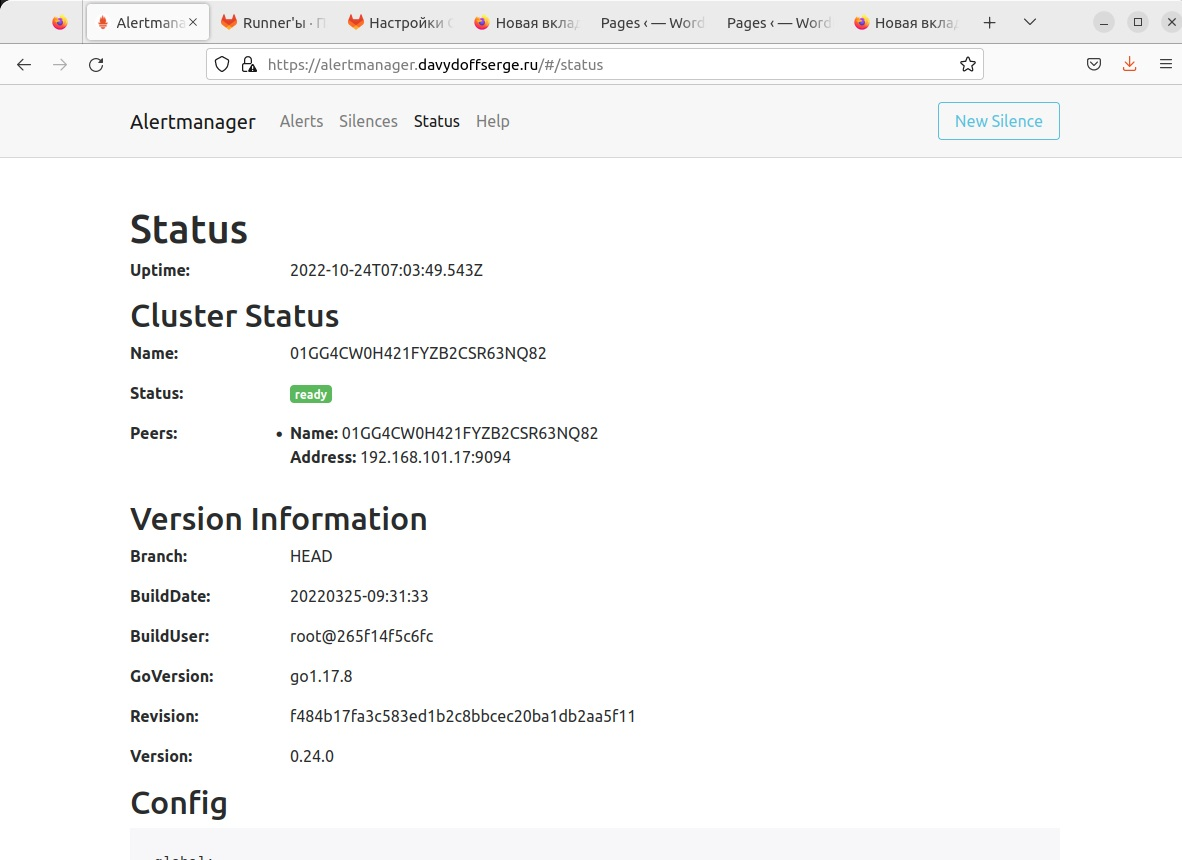
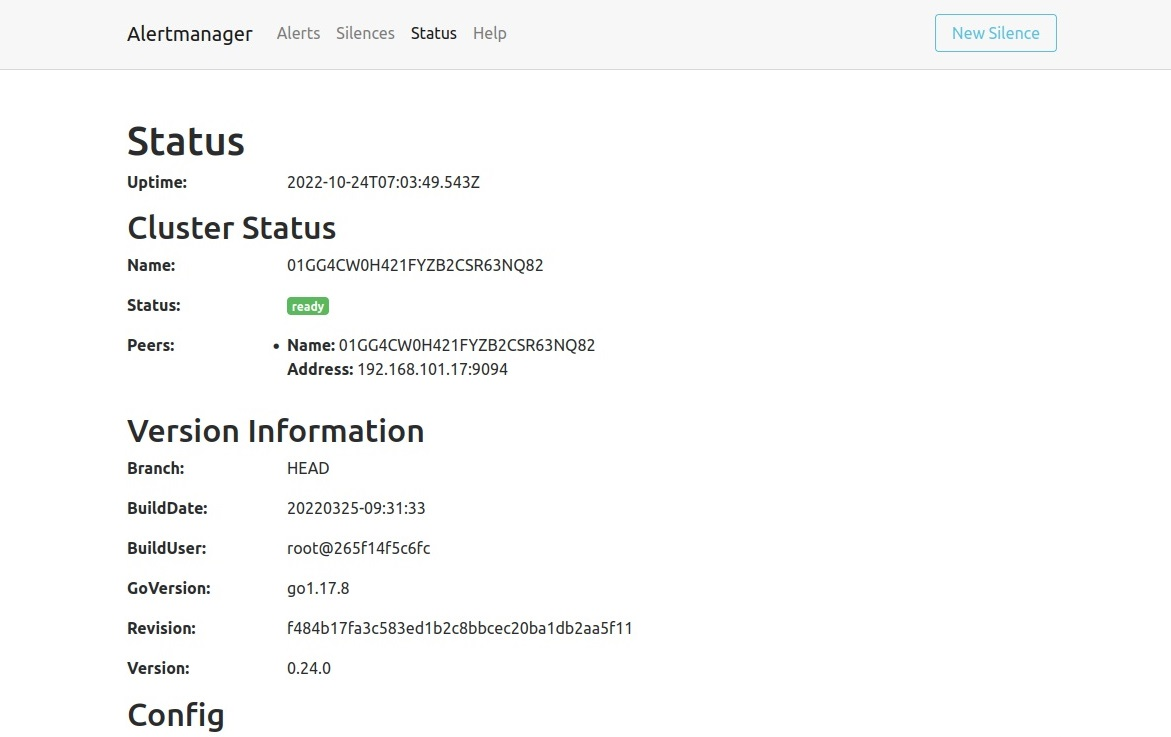
3

diff --git a/diplom/diplom.md b/diplom/diplom.md
@@ -48,7 +48,7 @@
 
 Устанвлен ```WordPress```.
 
-![](./kartinki2/wwwdavydoffsergeru.png)
+![](./kartinki2/wwwdavydoffsergeru.jpg)
 
 Установлены ```Gitlab CE``` и ```Gitlab Runner```
 
@@ -56,13 +56,13 @@
 
 Установлены: ```Prometheus,  Node Exporter```.
 
-![](./kartinki2/prometheus_up.png)
+![](./kartinki2/prometheus_up.jpg)
 
 Установлена: ```Grafana```
 
-![](./kartinki2/grafana_app.png)
+![](./kartinki2/grafana_app.jpg)
 
-![](./kartinki2/grafana_all2.png)
+![](./kartinki2/grafana_all2.jpg)
 
 Установлен: ```Alert Manager```
 
@@ -73,7 +73,7 @@
 
 ![](./kartinki2/kod.png)
 
-![](./kartinki2/theend.png)
+![](./kartinki2/theend.jpg)
 
 Р.S.: Задание Дипломного Проекта оказалось интересным, не скажу,что что все давалось легко, можно сказать что даже сложно.
 Но благодаря трудностям мы учимся и постигаем новое. Спасибо Вам Большое! 
